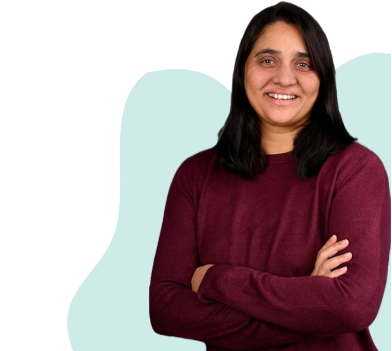
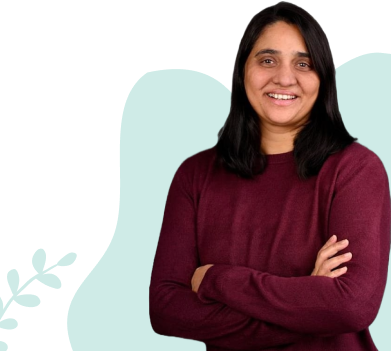
Chnages in profile section,footer,header

Changed region(s): [[0.0, 0.7123, 0.2143, 0.9402], [0.0, 0.9687, 0.0306, 1.0]]

diff --git a/src/components/about/AboutPage.tsx b/src/components/about/AboutPage.tsx
@@ -414,24 +414,30 @@ export default function Page() {
         </div>
 
         {/* PROFILE SECTION */}
-        <div className="bg-cream w-full flex items-center justify-center p-6 md:p-20 bg-cover bg-no-repeat bg-center relative pb-0 lg:pb-20">
+        <div className="bg-cream w-full flex items-center justify-center p-6 md:p-12 bg-cover bg-no-repeat bg-center relative pb-0 lg:pb-20">
           <div className="w-full flex justify-center">
             {/* Main Container: 1280px x 542px */}
-            <div className="relative flex flex-col md:flex-row w-full max-w-[1280px] min-h-[542px] w-[400px] h-[542px] border border-primary bg-cream rounded-xl overflow-hidden">
+            <div className="relative flex flex-col lg:flex-row w-full max-w-[400px] h-[542px] md:max-w-[770px] md:h-[952.5px] md:px-[6.95px] lg:pr-0 lg:max-w-[1280px] lg:h-auto border border-primary bg-cream rounded-xl overflow-hidden">
+
 
               {/* TEXT COLUMN: Properties based on Figma Auto Layout */}
-              <div className="flex-1 flex flex-col items-start justify-start px-8 md:px-12 lg:px-16 lg:pt-[95px] pt-2">
+              <div className="flex-1 flex flex-col items-start justify-start px-4 md:px-12 lg:px-16 lg:pt-[95px] pt-2">
                 {/* Text Container: Set to Fill width and Hug height */}
                 <div className="w-full h-auto flex flex-col items-start gap-0">
                   <h1 className="text-[40px] md:text-[56px] lg:text-[60px] font-bold text-brown leading-[1.1] lg:mb-[52px] mb-[20px]">
-                    Together, let&#39;s build a {" "}
-                    <span className="text-primary">greener</span>{" "}
+                    <span className="whitespace-nowrap">
+                      Together,&nbsp;let&apos;s
+                    </span>
+                    <br />
+                    <span className="whitespace-nowrap">
+                      build&nbsp;a&nbsp;<span className="text-primary">greener</span>
+                    </span>
+                    <br />
                     tomorrow
-                    {/* <span className="text-brown-medium">
+                  </h1>
+                  {/* <span className="text-brown-medium">
                       hubeco.market
                     </span> */}
-                  </h1>
-
                   <div className="flex flex-col md:flex-row items-start md:items-center gap-6 mt-auto lg:pb-[95px]">
                     <div className="flex flex-col">
                       <div className="flex items-center gap-3">
@@ -441,7 +447,7 @@ export default function Page() {
                         <Link
                           href="https://www.linkedin.com/in/saipadmap/"
                           target="_blank"
-                          className="p-1 rounded-md h-7 w-7 bg-primary hover:opacity-90 flex items-center justify-center transition-all"
+                          className="hidden lg:flex p-1 rounded-md h-7 w-7 bg-primary hover:opacity-90 flex items-center justify-center transition-all"
                         >
                           <BiLogoLinkedin className="text-white" size={24} />
                         </Link>
@@ -449,20 +455,33 @@ export default function Page() {
                       <p className="text-brown text-lg">
                         Founder & CEO
                       </p>
+                      <Link
+                        href="https://www.linkedin.com/in/saipadmap/"
+                        target="_blank"
+                        className="lg:hidden mt-1 p-1 rounded-md h-7 w-7 bg-primary hover:opacity-90 flex items-center justify-center transition-all"
+                      >
+                        <BiLogoLinkedin className="text-white" size={24} />
+                      </Link>
                     </div>
-
-
                   </div>
                 </div>
               </div>
 
               {/* IMAGE COLUMN: Fixed 668px width */}
-              <div className="w-full md:w-[668px] h-[400px] md:h-[542px] relative">
+              <div className="relative w-full h-[400px] md:w-[756.11px] md:h-[678.58px] lg:w-[668px] lg:h-[542px]">
                 <Image
                   src="/images/about/blob-mobile.png"
                   alt="SaiPadma Potluri - Founder & CEO"
                   fill
                   className="object-cover object-top md:hidden"
+                  loading="lazy"
+                />
+                <Image
+                  src="/images/about/blob-tab.png"
+                  alt="SaiPadma Potluri - Founder & CEO"
+                  width={756}
+                  height={678}
+                  className="hidden md:block lg:hidden absolute bottom-0 left-[49%] -translate-x-1/2"
                   loading="lazy"
                 />
 
@@ -471,7 +490,7 @@ export default function Page() {
                   alt="SaiPadma Potluri - Founder & CEO"
                   fill
                   style={{ objectFit: "cover" }}
-                  className="hidden md:block object-cover rounded-r-xl"
+                  className="hidden lg:block object-cover rounded-r-xl"
                   onError={(e) => {
                     e.currentTarget.src = 'images/product-placeholder.webp';
                   }}
@@ -479,7 +498,7 @@ export default function Page() {
                 />
 
               </div>
-              <div className="hidden md:block absolute bottom-0 left-[-40px]">
+              <div className="hidden lg:block md:hidden absolute bottom-0 left-[-40px]">
                 <Image
                   src="/images/about/leaf.png"
                   alt="decorative leaf"

diff --git a/src/components/home/imageCarousel/Swiper.tsx b/src/components/home/imageCarousel/Swiper.tsx
@@ -118,11 +118,11 @@ const ImageSlider = () => {
       transition={{ duration: 0.5, delay: 0.5, ease: "easeOut" }}
       className="bg-primary hover:bg-cream hover:text-primary text-cream 
                  w-full lg:w-auto 
-                 lg:px-[40px] lg:py-[18px] py-[10px] px-[20px] text-[18px] font-medium
-                 rounded-md"
+                 lg:px-[20px] lg:py-[18px] py-[10px] px-[20px] text-[18px] font-medium
+                 rounded-md whitespace-nowrap"
       onClick={() => router.push("/products")}
     >
-      Shop Now
+      Explore Materials
     </motion.button>
 
     <motion.button
@@ -131,11 +131,11 @@ const ImageSlider = () => {
       transition={{ duration: 0.5, delay: 0.5, ease: "easeOut" }}
       className="bg-primary hover:bg-cream hover:text-primary text-cream 
                  w-full lg:w-auto 
-                 lg:px-[40px] lg:py-[18px] py-[10px] px-[20px] text-[18px] font-medium
-                 rounded-md"
+                 lg:px-[20px] lg:py-[18px] py-[10px] px-[20px] text-[18px] font-medium
+                 rounded-md whitespace-nowrap"
       onClick={() => router.push("/plans")}
     >
-      Sell With Us
+      Partner with Us
     </motion.button>
 
   </div>

diff --git a/src/components/footer/MainFooter.tsx b/src/components/footer/MainFooter.tsx
@@ -84,7 +84,7 @@ const Footer = () => {
           <div className="w-full max-w-[1200px]">
             {/* Mobile */}
             <div className="lg:hidden flex flex-col gap-2 px-4 pb-10">
-              <p className="text-[12px] text-brown font-light">
+              <p className="text-[12px] text-brown font-light mb-[40px]">
                 Copyright © {currentYear}, Powered By Hubeco Green Ventures Pvt. Ltd.
                 All Rights Reserved
               </p>
@@ -124,7 +124,7 @@ const Footer = () => {
         <div className="w-full bg-cover bg-center bg-no-repeat">
 
           {/* GREEN DIVIDER */}
-          <div className="w-full flex justify-start lg:ml-[460px] pt-6 lg:pt-10 mb-4 px-4 lg:px-0">
+          <div className="w-full flex justify-start lg:ml-[460px] pt-0 md:pt-6 lg:pt-[138px] mb-4 px-4 lg:px-0 md:px-8">
             <div className="w-full lg:w-[768px] h-[1px] bg-[#069A66]" />
           </div>
 
@@ -139,7 +139,8 @@ const Footer = () => {
               max-w-[1200px]
               mx-auto
               gap-6 md:gap-y-8 lg:gap-[60px]
-              px-4 lg:px-0
+              px-4 lg:px-0 
+              md:px-8
               lg:ml-[460px]
             "
           >

diff --git a/src/components/product/Card.tsx b/src/components/product/Card.tsx
@@ -476,7 +476,7 @@ const ProductCard = ({
                   <CircularProgress color="#ffffff" size={6} />
                 </>
               ) : (
-                <> Request Quote</>
+                <> Request Pricing</>
               )}
             </Button>
           ) : product?.purchaseType == "MULTI" ? (
@@ -511,7 +511,7 @@ const ProductCard = ({
                     <CircularProgress color="#ffffff" size={6} />
                   </>
                 ) : (
-                  <> Request Quote</>
+                  <> Request Pricing</>
                 )}
               </Button>
             </>

diff --git a/src/app/cart/components/CartRow.tsx b/src/app/cart/components/CartRow.tsx
@@ -608,7 +608,7 @@ export default function CartRow({
               </Button>
                   </TooltipTrigger>
                   <TooltipContent className="bg-black">
-                    <p className="text-white text-sm font-regular">Request Quote</p>
+                    <p className="text-white text-sm font-regular">Request Pricing</p>
                   </TooltipContent>
                 </Tooltip>
               </TooltipProvider>

diff --git a/src/components/product/ProductDetails.tsx b/src/components/product/ProductDetails.tsx
@@ -1480,7 +1480,7 @@ const ProductDetails: React.FC<ProductProps> = ({ slug }: any) => {
                             }
                           }}
                         >
-                          <p className="text-cream text-md text-medium ml-3">Request for Quote</p>
+                          <p className="text-cream text-md text-medium ml-3">Request for Pricing</p>
                         </Button>
                       )}
 

diff --git a/src/components/product/QuoteCompo.tsx b/src/components/product/QuoteCompo.tsx
@@ -326,7 +326,7 @@ export default function QuoteCompo({
         >
           <DialogHeader>
             <DialogTitle className="text-brown text-xl font-bold">
-              Request Quote
+              Request Pricing
             </DialogTitle>
           </DialogHeader>
           <div className="h-[98%] scrollbar overflow-y-auto mb-7 pr-2">

diff --git a/src/app/cart/components/QuoteCompoCart.tsx b/src/app/cart/components/QuoteCompoCart.tsx
@@ -206,7 +206,7 @@ export default function QuoteCompo({
         >
           <DialogHeader>
             <DialogTitle className="text-xl font-bold">
-              Request Quote
+              Request Pricing
             </DialogTitle>
           </DialogHeader>
           <div className="h-fit scrollbar overflow-y-auto mb-7 pr-2">

diff --git a/src/components/product/quoteComponent.tsx b/src/components/product/quoteComponent.tsx
@@ -71,7 +71,7 @@ export default function quoteComponent() {
 
           <DialogHeader>
             <DialogTitle className="text-brown text-xl font-bold">
-              Request Quote
+              Request Pricing
             </DialogTitle>
           </DialogHeader>
           <div className="max-h-[500px] overflow-y-auto pr-2">
